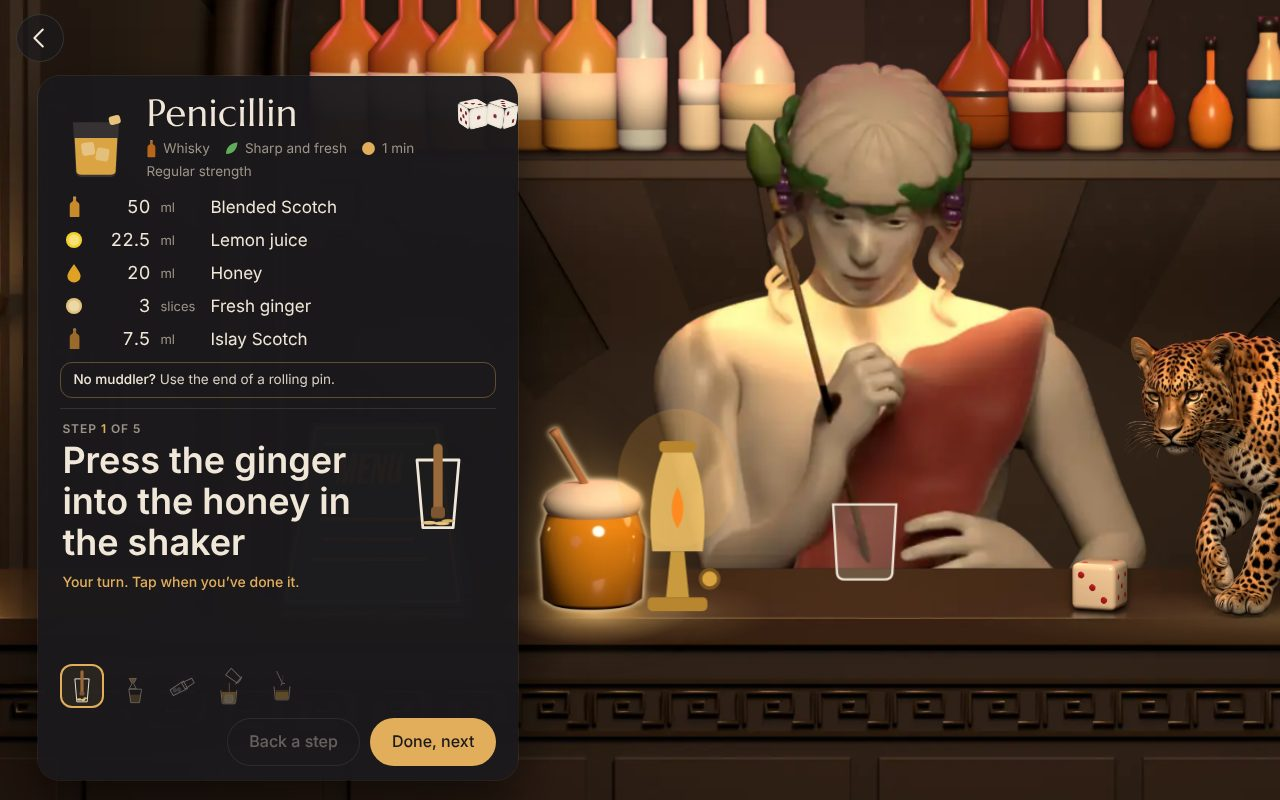
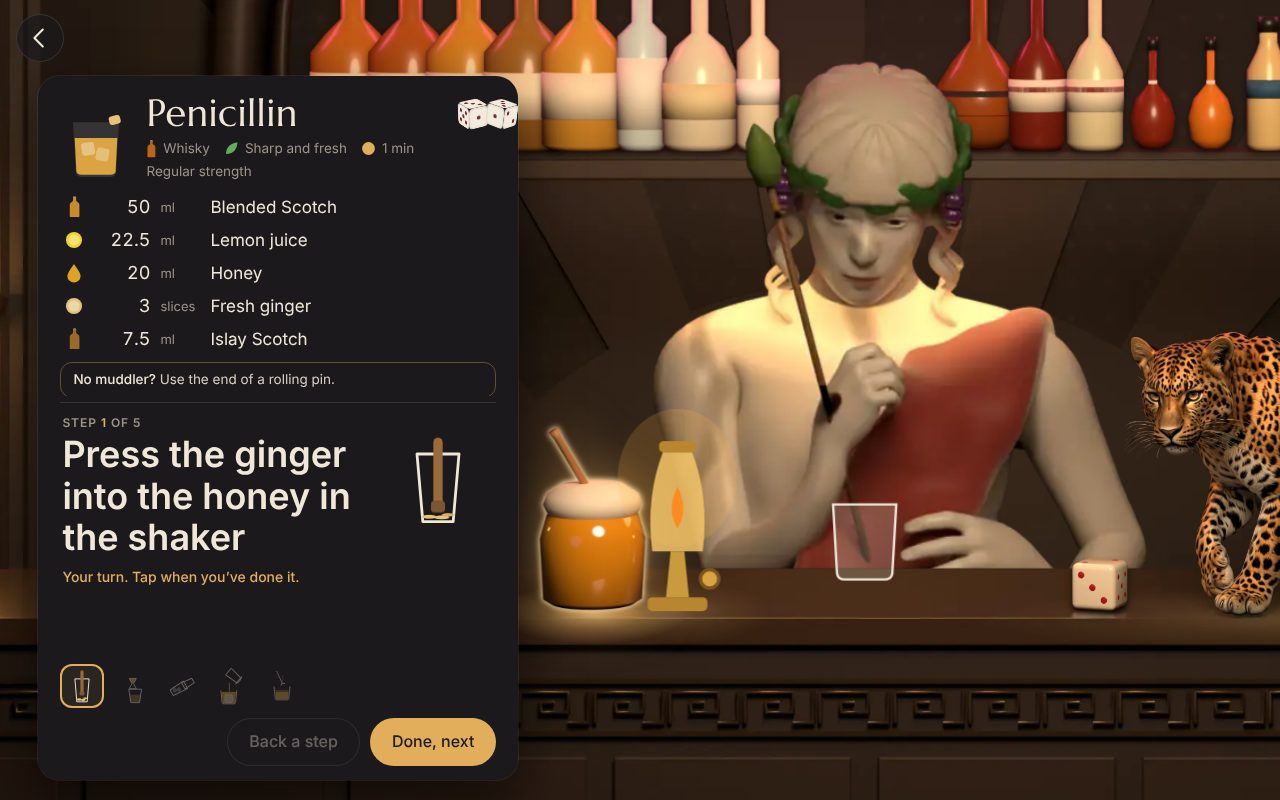
Prototype E: review fixes for the Halo carry-over (large text, focus, press)
- At A+ the recipe keeps its ingredients and its step: the top section has
  a floor and a cap, the step box scrolls, the thumbnails never shrink, and
  the ingredient text grows with --text-scale instead of zoom. On a phone at
  the largest sizes the step comes first.
- Your bar keeps every tile in place when a bottle is marked run out
  (stable shelf order), and groups liqueurs under Liqueurs from the data.
- Panels take focus when they open; going home returns focus to the
  touchable you came from; Dionysus gets the gold focus ring; Escape closes
  settings.
- Panel buttons give a little under the finger (off with reduced motion);
  phone step thumbnails are 44 px; the phone talk field stays usable at A+.
- Opaque panels; the cycling phrase fades instead of being cut; one dice
  on the phone recipe; step glyphs drawn as soon as anim.js arrives.

Claude-Session: https://claude.ai/code/session_017R8H9iatqLJtjbxy9HG2GV

diff --git a/prototypes/e-rendered/app.js b/prototypes/e-rendered/app.js
@@ -2,7 +2,7 @@
    The camera is still the SVG viewBox, in B's world units. The background is one rendered picture per camera
    position; touchables and bottles are separate rendered layers; Dionysus is his own layer (dio-layer.js). */
 /* Halo's step glyphs (src/anim.js, copied unchanged). Loaded first, before anything can open a recipe. */
-(function loadAnim() { const s = document.createElement('script'); s.src = 'anim.js'; s.async = false; document.head.append(s); })();
+const ANIM = (function loadAnim() { const s = document.createElement('script'); s.src = 'anim.js'; s.async = false; document.head.append(s); return s; })();
 const $ = s => document.querySelector(s);
 const NS = 'http://www.w3.org/2000/svg';
 const svg = $('#scene');
@@ -189,7 +189,8 @@ const LIFTED = ['honey', 'menu', 'lamp', 'panther'];
     el('ellipse', { class: 'lpool', 'data-for': id, cx: L.x + L.w / 2, cy: L.y + L.h + 1, rx: Math.max(56, L.w * .85), ry: 18, fill: 'url(#poolGrad)' }, pools);
   });
   /* press: lift a little; keyboard: Enter or Space acts like a tap on any touchable */
-  svg.addEventListener('pointerdown', e => { const t = e.target.closest('.touch'); if (t) t.classList.add('pressed'); });
+  svg.addEventListener('pointerdown', e => { const t = e.target.closest('.touch'); if (t) { t.classList.add('pressed'); if (screen === 'home') cameFrom = t; } });
+  $('#talkBtn').addEventListener('pointerdown', () => { if (screen === 'home') cameFrom = $('#talkBtn'); });
   const unpress = () => document.querySelectorAll('.touch.pressed').forEach(t => t.classList.remove('pressed'));
   addEventListener('pointerup', unpress); addEventListener('pointercancel', unpress); svg.addEventListener('pointerleave', unpress);
   svg.addEventListener('keydown', e => { if (e.key !== 'Enter' && e.key !== ' ') return; const t = e.target.closest('.touch'); if (!t) return;
@@ -209,6 +210,15 @@ function sizeHits() {
   });
 }
 sizeHits();
+/* Dionysus gets the same gold focus ring, drawn round his figure */
+(function dioRing() {
+  const d = $('#dio'), ring = el('rect', { class: 'ring', rx: 14 }); d.appendChild(ring);
+  d.addEventListener('focus', () => {
+    const shape = d.querySelector('#dioLoops path') || d.querySelector('#body');
+    try { const b = shape.getBBox(), m = d.getScreenCTM(), px = Math.hypot(m.a, m.b) || 1, pad = 6 / px;
+      ring.setAttribute('x', b.x - pad); ring.setAttribute('y', b.y - pad); ring.setAttribute('width', b.width + 2 * pad); ring.setAttribute('height', b.height + 2 * pad); ring.setAttribute('rx', 14 / px); } catch (_) {}
+  });
+})();
 
 /* ---------------- Main loop ---------------- */
 let last = performance.now(), T = 0;
@@ -253,6 +263,7 @@ function speak(html, opts = {}) {
   talkForm.hidden = !opts.talk; dio.lookUp(true); $('#talkBtn').hidden = true;
   requestAnimationFrame(placeBubble);
   if (opts.talk && !isPhone()) setTimeout(() => $('#talkIn').focus({ preventScroll: true }), 50);
+  else if (!opts.talk) focusIn(chips.querySelector('.chip'));
 }
 function hush() { bubble.hidden = true; dio.lookUp(false); if (screen === 'home') $('#talkBtn').hidden = false; }
 $('#bubbleX').onclick = () => { hush(); if (shotName !== 'home') home(); };
@@ -264,17 +275,25 @@ function clearScene() {
   panel.hidden = true; panel.className = 'panel'; svg.classList.remove('dim'); document.body.classList.remove('recipe-on');
   recipeState = null; $('#drink').innerHTML = ''; dio.idle(); lightUp(null);
 }
+/* Focus: a panel takes focus when it opens; going home gives it back to the touchable (or the talk pill) you came from.
+   While a panel is open, the scene's touchables leave the Tab order. */
+let cameFrom = null;
+const focusIn = sel => requestAnimationFrame(() => { const e = typeof sel === 'string' ? panel.querySelector(sel) : sel; if (e && !e.closest('[hidden]')) e.focus({ preventScroll: true }); });
+function sceneTabbable(on) { document.querySelectorAll('#scene .touch').forEach(t => { if (t.id !== 'lamp') t.setAttribute('tabindex', on ? '0' : '-1'); }); }
 function home() {
   screen = 'home'; clearScene(); $('#back').hidden = true; $('#talkBtn').hidden = false;
-  hush(); return cam('home');
+  hush(); sceneTabbable(true);
+  const back = cameFrom, a = document.activeElement; cameFrom = null;
+  if (back && back.isConnected && !back.hidden && (!a || a === document.body || panel.contains(a) || bubble.contains(a) || a === $('#back'))) back.focus({ preventScroll: true });
+  return cam('home');
 }
 $('#back').onclick = () => home();
 $('#back').innerHTML = ICON.back;
 /* Halo's search pill: talking to him is the search (Q3). The cycling words are things you can say (R12), never buttons. */
-$('#talkBtn').innerHTML = `<span class="tl">Talk to Dionysus</span><span class="cyc" aria-hidden="true">${['“warm me up”', '“something smoky”', '“after dinner”', '“gin, sharp and fresh”', '“nothing too strong”'].map((t, n) => `<em style="animation-delay:${n * 3}s">${t}</em>`).join('')}</span><span class="mi" aria-hidden="true">${ICON.mic}</span>`;
+$('#talkBtn').innerHTML = `<span class="tl">Talk to Dionysus</span><span class="cyc" aria-hidden="true">${['“warm me up”', '“something smoky”', '“after dinner”', '“fresh, with gin”', '“not too strong”'].map((t, n) => `<em style="animation-delay:${n * 3}s">${t}</em>`).join('')}</span><span class="mi" aria-hidden="true">${ICON.mic}</span>`;
 $('#talkBtn').setAttribute('aria-label', 'Talk to Dionysus');
-addEventListener('keydown', e => { if (e.key === 'Escape' && screen !== 'home' && screen !== 'intro') home(); });
-function setScreen(name) { screen = name; $('#back').hidden = false; $('#talkBtn').hidden = true; clearScene(); }
+addEventListener('keydown', e => { if (e.key !== 'Escape') return; if (!settings.hidden) { settings.hidden = true; $('#lamp').focus({ preventScroll: true }); return; } if (screen !== 'home' && screen !== 'intro') home(); });
+function setScreen(name) { if (screen === 'home' && !cameFrom) { const a = document.activeElement; cameFrom = a && a.closest && (a.closest('.touch') || a.closest('#talkBtn')) || null; } screen = name; $('#back').hidden = false; $('#talkBtn').hidden = true; clearScene(); sceneTabbable(false); }
 function lightUp(id) { document.querySelectorAll('.touch.lit').forEach(t => t.classList.remove('lit')); if (id) $('#' + id).classList.add('lit'); }
 
 /* 1. Opening: the big word becomes the neon sign */
@@ -314,7 +333,7 @@ function openPhotos() {
    <div class="row"><button class="btn ghost" id="pcancel">Not now</button><button class="btn" id="pread">Read these photos</button></div>`;
   panel.querySelectorAll('.photo').forEach(b => b.onclick = () => { const id = b.dataset.id; picked.has(id) ? picked.delete(id) : picked.add(id); b.setAttribute('aria-pressed', picked.has(id)); });
   $('#pasteL').onclick = e => { e.preventDefault(); openPaste(); };
-  $('#pcancel').onclick = home;
+  $('#pcancel').onclick = home; focusIn('#pread');
   $('#pread').onclick = async () => {
     if (!picked.size) return;
     panel.innerHTML = `<h2>Show him your bar</h2><div class="reading"><i></i> Dionysus is reading your photos…</div>`;
@@ -334,6 +353,7 @@ function openPaste() {
    <div class="row"><button class="btn ghost" id="pex">Use an example reply</button><button class="btn ghost" id="pcancel">Not now</button><button class="btn" id="pread">Read the reply</button></div>`;
   $('#aiPrompt').textContent = AI_PROMPT();
   $('#copyP').onclick = () => { navigator.clipboard && navigator.clipboard.writeText(AI_PROMPT()).catch(() => {}); $('#copyP').textContent = 'Copied'; };
+  focusIn('#pasteIn');
   $('#pex').onclick = () => { $('#pasteIn').value = JSON.stringify({ bottles: INVENTORY.have.map(k => ({ label: ING[k][0], style: k })), barware: ['shaker', 'strainer', 'jigger', 'spoon'] }); };
   $('#pcancel').onclick = home;
   $('#pread').onclick = () => {
@@ -342,7 +362,7 @@ function openPaste() {
     confirmFound(res, res.unknown);
   };
 }
-const famName = k => isBottle(k) ? (FAMILIES[ING[k][3]] || { bitters: 'Bitters', mixer: 'Mixers' }[ING[k][3]] || 'Other') : 'In the kitchen';
+const famName = k => isBottle(k) ? GROUP_NAME(groupOf(k)) : 'In the kitchen';
 function confirmFound(res, unknown = []) {
   const byKind = {}; res.found.forEach(k => { const f = famName(k); (byKind[f] = byKind[f] || []).push(k); });
   panel.innerHTML = `<h2>Here's what he found</h2><ul class="found">${Object.entries(byKind).map(([f, l]) => `<li><b>${f}</b>${l.map(k => `<span class="fi">${ingIco(k, 22)}${esc(ING[k][0])}</span>`).join('')}</li>`).join('')}</ul>
@@ -350,7 +370,7 @@ function confirmFound(res, unknown = []) {
    <p class="lbl">Barware: tick what you have</p>
    <div class="ticks">${Object.entries(BARWARE).map(([k, v]) => `<label><input type="checkbox" value="${k}" ${res.tools.includes(k) ? 'checked' : ''}> ${v}</label>`).join('')}</div>
    <div class="row"><button class="btn ghost" id="pcancel">Not now</button><button class="btn" id="pstock">Stock the shelf</button></div>`;
-  $('#pcancel').onclick = home;
+  $('#pcancel').onclick = home; focusIn('#pstock');
   $('#pstock').onclick = async () => {
     const tools = [...panel.querySelectorAll('.ticks input:checked')].map(i => i.value);
     applyReading(res, tools); panel.hidden = true; drawShelf(true);
@@ -385,6 +405,7 @@ function openShelf(tab) {
   panel.querySelectorAll('.bhead .fb').forEach(b => b.onclick = () => { shelfTab = b.dataset.t; panel.querySelectorAll('.bhead .fb').forEach(x => x.setAttribute('aria-selected', x === b)); panel.querySelector('.bhead h2').textContent = b.textContent; fillBar(); });
   $('#pmore').onclick = openPhotos; $('#pdone').onclick = home;
   fillBar();
+  focusIn('#barBody .it');
 }
 function fillBar() {
   const box = $('#barBody'); if (!box) return;
@@ -395,7 +416,7 @@ function fillBar() {
     box.querySelectorAll('.mini').forEach(b => b.onclick = () => openRecipe(b.dataset.id));
     return;
   }
-  const fam = {}; shelfBottles().forEach(b => { const f = FAMILIES[b.family] || { bitters: 'Bitters', mixer: 'Mixers' }[b.family] || 'Other'; (fam[f] = fam[f] || []).push(b); });
+  const fam = {}; shelfBottles().forEach(b => { const f = GROUP_NAME(groupOf(b.k)); (fam[f] = fam[f] || []).push(b); });
   const outN = BAR.out.size;
   box.innerHTML = `<p class="sub">${shelfBottles().length - outN} bottles${outN ? ` · ${outN} run out` : ''}. Tap a bottle when it runs out.</p>
    <div class="bfams">${Object.entries(fam).map(([f, l]) => `<section class="bfam"><h3>${f}</h3><div class="ig">${l.map(b => `<button class="it${b.out ? ' off' : ''}" data-k="${b.k}" aria-pressed="${!b.out}" aria-label="${esc(b.style)}${b.out ? ', run out' : ''}">${ingIco(b.k, 40, { ghost: b.out })}<span>${esc(b.style)}</span>${b.out ? '<small>run out</small>' : ''}</button>`).join('')}</div></section>`).join('')}</div>
@@ -437,6 +458,7 @@ async function openMenu(tab = 'spirit') {
   panel.innerHTML = `<h2>MENU</h2><p class="menunote">${R.length} drinks · ${n} you can make now</p><div class="fbs" role="tablist">${[['spirit', 'By spirit'], ['feel', 'By feel'], ['az', 'A–Z']].map(([k, v]) => `<button class="fb" role="tab" data-t="${k}" aria-selected="${k === tab}">${v}</button>`).join('')}</div><div class="mbody"></div>`;
   panel.querySelectorAll('.fbs .fb').forEach(b => b.onclick = () => { panel.querySelectorAll('.fbs .fb').forEach(x => x.setAttribute('aria-selected', x === b)); fillMenu(b.dataset.t); });
   fillMenu(tab);
+  focusIn('.fbs .fb[aria-selected=true]');
 }
 function wireDrinks() { panel.querySelectorAll('.dc').forEach(b => b.onclick = () => openRecipe(b.dataset.id)); }
 /* Halo's A–Z ring: the letters swell under the finger (or the mouse); lift on a letter and its drinks pop out as an
@@ -587,7 +609,8 @@ function ingRow(x) {
   return `<div class="ir${ok || sub ? '' : ' miss'}"><span class="ii">${ingIco(x.k, 22, { ghost: !ok && !sub })}</span><span class="iq">${q}</span><span class="iu">${esc(unit)}</span><span class="in">${esc(name)}</span><span class="ix">${right}</span></div>`;
 }
 function openRecipe(id, chosen) {
-  const r = RB[id]; hush(); setScreen('recipe');
+  const r = RB[id]; if (!r) return home();
+  hush(); setScreen('recipe');
   document.body.classList.add('recipe-on'); cam('recipe', 900);
   golden = Math.random() < .15;
   const swaps = swapsFor(r);
@@ -612,6 +635,10 @@ function openRecipe(id, chosen) {
   $('#againDice').onclick = () => another($('#againDice .dice'));
   recipeState = { r, i: 0, chosen };
   drinkGlass(r, 0, false); goStep(0);
+  focusIn('#nextS');
+  /* if Halo's glyphs are still loading, draw them the moment they arrive */
+  if (typeof act !== 'function') ANIM.addEventListener('load', () => { if (!recipeState || recipeState.r !== r) return;
+    panel.querySelectorAll('.thumbs .th').forEach((b, n) => { b.innerHTML = glyph(r, n); }); const g = $('#glyph'); if (g) g.insertAdjacentHTML('afterbegin', glyph(r, recipeState.i)); }, { once: true });
 }
 /* "Another": Halo's dice roll, then a new barman's choice (R7 pool) */
 function another(diceBox) {

diff --git a/prototypes/e-rendered/style.css b/prototypes/e-rendered/style.css
@@ -3,7 +3,7 @@
    Marcellus for names over Inter for reading. The bar stays Blender's; the panels are Halo's. */
 :root{--step-size:36px;--text-scale:1;--page:#0f0e10;--cream:#f0e7d8;
  --bg:#1b191c;--ink:#f0e7d8;--mute:#9d9488;--faint:#332f34;--glass:rgba(240,231,216,.13);--acc:#e2ae5c;--ok:#7cc48a;--need:#e07060;
- --panel:rgba(27,25,28,.96);--line:rgba(240,231,216,.12);
+ --panel:#1b191c;--line:rgba(240,231,216,.12);
  --display:"Marcellus",Georgia,serif;--body:"Inter",system-ui,sans-serif;--e:cubic-bezier(.2,0,0,1);
  --skin:#e8d4bd;--shade:#b89a80;--veinop:.28;--red:#9e2a22;--red2:#7a1d18;--grn:#2f5a32;--grn2:#244726;--lip:#b7615a;--cheek:#d9907a;--cheekop:.35;--hair:#2b1b12;
  --f-sweet:#e0a224;--f-bal:#4fa59d;--f-bit:#d0453a;--f-dec:#b07a52;--f-str:#d46a28;--f-fre:#62ad5a;
@@ -45,7 +45,7 @@ svg.ghost{opacity:.3}
 /* Dionysus: rim only. He must stay sharp and unbleached (R10) */
 #dio{transition:filter .25s var(--e)}
 #dio:hover,#dio.lit{filter:drop-shadow(0 0 1px rgba(255,222,170,.85)) drop-shadow(0 0 5px rgba(226,174,92,.25))}
-#dio:focus-visible{filter:drop-shadow(0 0 0 var(--acc)) drop-shadow(0 0 2px var(--acc))}
+#dio .ring{stroke-width:3px}
 /* the shelf: the bottles lift as one when it is touched; each keeps its own shadow */
 #shelf .lift{transform-origin:50% 100%}
 #shelf:active .lift,#shelf.pressed .lift{transform:translateY(-2px)}
@@ -90,7 +90,7 @@ svg.ghost{opacity:.3}
 #talkBtn{left:50%;bottom:max(20px,env(safe-area-inset-bottom));transform:translateX(-50%);display:flex;align-items:center;gap:14px;height:56px;min-width:340px;padding:0 10px 0 24px;border-radius:28px;
  background:rgba(51,47,52,.92);color:var(--ink);box-shadow:0 0 0 1px rgba(240,231,216,.08) inset,0 14px 34px rgba(0,0,0,.55);font:500 17px var(--body);text-align:left}
 #talkBtn .tl{flex:none}
-#talkBtn .cyc{position:relative;flex:1;height:22px;overflow:hidden;color:var(--mute);font-weight:400;font-size:15px}
+#talkBtn .cyc{position:relative;flex:1;height:22px;overflow:hidden;-webkit-mask-image:linear-gradient(90deg,#000 85%,transparent);mask-image:linear-gradient(90deg,#000 85%,transparent);color:var(--mute);font-weight:400;font-size:15px}
 #talkBtn .cyc em{position:absolute;left:0;top:0;font-style:normal;white-space:nowrap;opacity:0;animation:cyc 15s infinite}
 @keyframes cyc{0%{opacity:0;transform:translateY(8px)}3%,17%{opacity:1;transform:none}20%,100%{opacity:0;transform:translateY(-8px)}}
 #talkBtn .mi{width:40px;height:40px;border-radius:50%;display:grid;place-items:center;color:var(--acc);margin-left:auto}
@@ -235,30 +235,30 @@ svg.ghost{opacity:.3}
 /* ---- Recipe: Halo's grid on a dark card; he stands sharp beside it (R10) ---- */
 .recipe{left:max(20px,3vw);top:76px;bottom:20px;width:min(480px,46vw);display:flex;flex-direction:column;background:var(--panel);color:var(--ink);border-radius:22px;padding:18px 22px 14px;
  box-shadow:0 0 0 1px rgba(240,231,216,.08),0 24px 60px rgba(0,0,0,.6)}
-.recipe .rtop{flex:0 1 auto;min-height:72px;overflow:auto;scrollbar-width:thin;scrollbar-color:var(--faint) transparent;margin:0 -6px;padding:0 6px}
+.recipe .rtop{flex:0 0 auto;max-height:45%;min-height:72px;overflow:auto;scrollbar-width:thin;scrollbar-color:var(--faint) transparent;margin:0 -6px;padding:0 6px}
 .recipe .kicker{display:flex;align-items:center;gap:8px;margin:0 56px 6px 0;font-size:13.5px;color:var(--acc)}
 .recipe .kicker b{font-weight:500;color:var(--ink)}
 .recipe .head{display:grid;grid-template-columns:72px 1fr;column-gap:14px;align-items:end;margin:0 52px 10px 0}
 .recipe .head .rg{display:flex;justify-content:center;align-items:flex-end}
 .recipe h2{font:400 38px/1.02 var(--display);letter-spacing:.01em;margin:0 0 6px}
-.recipe .rm{display:flex;flex-wrap:wrap;gap:4px 14px;color:var(--mute);font-size:13.5px}.recipe .rm span{display:flex;align-items:center;gap:6px}
+.recipe .rm{display:flex;flex-wrap:wrap;gap:4px 14px;color:var(--mute);font-size:calc(13.5px * min(var(--text-scale), 1.15))}.recipe .rm span{display:flex;align-items:center;gap:6px}
 .again{position:absolute;top:10px;right:10px;width:56px;height:56px;border:0;background:none;border-radius:16px;display:grid;place-items:center}
 .again:hover{background:rgba(240,231,216,.05)}
 .recipe .worth{margin:0 0 8px;background:rgba(226,174,92,.12);color:var(--ink);border-radius:12px;padding:8px 12px;font-size:14px}
 .recipe .golden{margin:0 0 8px;background:linear-gradient(90deg,rgba(232,196,90,.25),rgba(255,243,196,.06));color:var(--ink);border-radius:12px;padding:8px 12px;font-size:14px}
-.recipe .ing{display:grid;grid-template-columns:28px 52px 40px 1fr auto;column-gap:10px;row-gap:3px;align-items:center;margin:2px 0 8px}
+.recipe .ing{--s:var(--text-scale);display:grid;grid-template-columns:28px calc(52px * var(--s)) calc(40px * var(--s)) 1fr auto;column-gap:10px;row-gap:3px;align-items:center;margin:2px 0 8px}
 .recipe .ir{display:contents}
 .recipe .ii{display:grid;place-items:center;height:30px}
-.recipe .iq{text-align:right;font-size:18px;font-variant-numeric:tabular-nums}
-.recipe .iu{font-size:13px;color:var(--mute)}
-.recipe .in{font-size:17px;line-height:1.2}
-.recipe .ix{font-size:13px;text-align:right;white-space:nowrap}
+.recipe .iq{text-align:right;font-size:calc(18px * var(--s));font-variant-numeric:tabular-nums}
+.recipe .iu{font-size:calc(13px * var(--s));color:var(--mute)}
+.recipe .in{font-size:calc(17px * var(--s));line-height:1.2}
+.recipe .ix{font-size:calc(13px * var(--s));text-align:right;white-space:nowrap}
 .recipe .ir.miss .iq,.recipe .ir.miss .in{color:var(--mute)}
 .recipe .sub{color:var(--acc)}.recipe .opt{color:var(--mute)}.recipe .needx{color:var(--need)}
-.toolswap{border:1px solid rgba(226,174,92,.35);background:transparent;color:#d8cfc2;border-radius:12px;padding:7px 12px;font-size:13.5px;margin:0 0 4px}
+.toolswap{border:1px solid rgba(226,174,92,.35);background:transparent;color:#d8cfc2;border-radius:12px;padding:7px 12px;font-size:calc(13.5px * var(--text-scale));margin:0 0 4px}
 .toolswap b{color:var(--ink);font-weight:500}
 /* R6, R11: one step at a time, big enough to read from a metre; the size is one variable. The glyph shows the hand's movement. */
-.stepbox{flex:1 0 auto;max-height:64%;min-height:0;overflow:auto;margin-top:6px;border-top:1px solid var(--line);padding:12px 2px 6px;cursor:pointer;display:grid;grid-template-columns:1fr auto;column-gap:14px;align-items:start;scrollbar-width:thin;scrollbar-color:var(--faint) transparent}
+.stepbox{flex:1 1 0;min-height:0;overflow:auto;margin-top:6px;border-top:1px solid var(--line);padding:12px 2px 6px;cursor:pointer;display:grid;grid-template-columns:1fr auto;column-gap:14px;align-items:start;scrollbar-width:thin;scrollbar-color:var(--faint) transparent}
 .stepbox .stxt{min-width:0}
 .stepbox .stepno{margin:0;font:600 12px var(--body);letter-spacing:.08em;text-transform:uppercase;color:var(--mute)}
 .stepbox .stepno i{font-style:normal;color:var(--acc)}
@@ -269,7 +269,7 @@ svg.ghost{opacity:.3}
 .stepbox .glyph .act{width:112px;height:112px;overflow:visible}
 .stepbox .sec{display:flex;align-items:center;gap:6px;color:var(--mute);font-size:13px}
 .stepbox .done{grid-column:1/-1}
-.thumbs{display:flex;gap:6px;padding:8px 0 2px;overflow-x:auto;scrollbar-width:none}
+.thumbs{flex:none;display:flex;gap:6px;padding:8px 0 2px;overflow-x:auto;scrollbar-width:none}
 .thumbs .th{flex:none;width:44px;height:44px;border:0;padding:2px;border-radius:12px;background:transparent;opacity:.35;display:grid;place-items:center}
 .thumbs .th .act{width:38px;height:38px}
 .thumbs .th .act *{animation:none!important}
@@ -325,15 +325,16 @@ svg.ghost{opacity:.3}
  .recipe .head{grid-template-columns:1fr;margin-bottom:6px}
  .recipe .head .rg{display:none}
  .recipe h2{font-size:30px;margin-bottom:4px}
- .recipe .rm{font-size:12.5px;gap:2px 10px}
- .recipe .ing{grid-template-columns:22px 40px 32px 1fr auto;column-gap:7px;row-gap:0;margin-bottom:6px}
+ .recipe .rm{font-size:calc(12.5px * min(var(--text-scale), 1.15));gap:2px 10px}
+ .recipe .ing{grid-template-columns:22px calc(40px * var(--s)) calc(32px * var(--s)) 1fr auto;column-gap:7px;row-gap:0;margin-bottom:6px}
  .recipe .ii{height:24px}.recipe .ii svg{max-height:20px;width:auto}
- .recipe .iq{font-size:14px}.recipe .in{font-size:13.5px}.recipe .iu,.recipe .ix{font-size:12px}
- .toolswap{font-size:12.5px;padding:5px 10px}
+ .recipe .iq{font-size:calc(14px * var(--s))}.recipe .in{font-size:calc(13.5px * var(--s))}.recipe .iu,.recipe .ix{font-size:calc(12px * var(--s))}
+ .toolswap{font-size:calc(12.5px * var(--text-scale));padding:5px 10px}
  .recipe .worth,.recipe .golden{font-size:13px;padding:6px 10px}
  .stepbox{grid-template-columns:1fr auto;column-gap:10px;padding-top:8px}
  .stepbox .glyph .act{width:72px;height:72px}
- .thumbs .th{width:36px;height:36px;border-radius:10px}.thumbs .th .act{width:30px;height:30px}
+ .thumbs{gap:2px}.thumbs .th{width:44px;height:44px;border-radius:12px}.thumbs .th .act{width:32px;height:32px}
+ .kicker .dice{display:none}
  .recipe .btn{padding:10px 16px}
  .again{width:52px;height:44px;top:8px;right:6px}.again .dice{--ds:15px!important}
  .recipe .rtop{-webkit-mask-image:linear-gradient(#000 calc(100% - 16px),transparent);mask-image:linear-gradient(#000 calc(100% - 16px),transparent);padding-bottom:10px}
@@ -352,14 +353,25 @@ svg.ghost{opacity:.3}
  .settings{top:auto;bottom:8px;right:8px;left:8px;width:auto}
 }
 /* at the largest text the glyph moves above the words on a phone */
-@media (max-width:640px){ :root[data-big] .stepbox{grid-template-columns:1fr} :root[data-big] .stepbox .glyph{order:-1;flex-direction:row;justify-content:flex-start} }
+@media (max-width:640px){ :root[data-big] .stepbox{grid-template-columns:1fr} }
 @media (prefers-reduced-motion:reduce){*{animation:none!important;transition:none!important}.touch:active .lift,.touch.pressed .lift{transform:none}#talkBtn .cyc em:first-child{opacity:1}}
 /* the shelf sheet sits below the shelf it describes */
 .sheet.shelfsheet{top:auto;bottom:16px;transform:translateX(-50%);max-height:48vh}
 @media (max-width:640px){ .sheet.shelfsheet{max-height:56dvh;bottom:8px} }
 
 /* Text size setting: the step uses --step-size; reading panels scale with --text-scale */
-.bubble,.recipe .ing,.recipe .rm,.toolswap,.menunote,.barsheet .bfams{zoom:var(--text-scale)}
+.menunote,.barsheet .bfams{zoom:var(--text-scale)}
+.bubble p{font-size:calc(17px * var(--text-scale))}
+.chip{font-size:calc(15px * min(var(--text-scale), 1.3))}
+.chip.res b{font-size:calc(18px * min(var(--text-scale), 1.3))}
+.story .sq{font-size:calc(19px * var(--text-scale))}
+.talk input{font-size:calc(15px * min(var(--text-scale), 1.3))}
+/* phone at large text: the talk field gets its own row, mic and Ask below it */
+@media (max-width:640px){ :root[data-big] .talk{flex-wrap:wrap} :root[data-big] .talk input{flex:1 1 100%} :root[data-big] .talk .mic{margin-left:auto} :root[data-big] .story .sq{font-size:calc(17px * var(--text-scale))} }
+/* press: panel buttons give a little under the finger, like the touchables on the counter */
+:is(.btn,.chip,.it,.mini,.fb,.tool,.th,.again,.x,.photo,#back):active{transform:translateY(1px) scale(.98)}
+:is(.btn,.chip,.it,.mini,.fb,.tool,.th,.again,.x,.photo,#back){transition:transform .12s var(--e),background .15s var(--e)}
+@media (prefers-reduced-motion:reduce){:is(.btn,.chip,.it,.mini,.fb,.tool,.th,.again,.x,.photo,#back):active{transform:none}}
 
 /* ---- Halo's step glyphs (index.html, copied; its 'drop' keyframes renamed 'adrop' so the shelf's bottle drop keeps its own) ---- */
 .act *{transform-box:view-box}
@@ -447,3 +459,16 @@ svg.ghost{opacity:.3}
 .mist{animation:mist 1.4s ease-out infinite}
 @keyframes mist{0%,25%{opacity:0;transform:none}35%{opacity:1}100%{opacity:0;transform:translateY(24px)}}
 .steam{animation:stm 2.4s ease-out infinite}
+/* strip cards are placed with transform, so the press goes to the glass */
+.dc .pic{transition:transform .12s var(--e)}.dc:active .pic{transform:translateY(2px) scale(.97)}
+@media (prefers-reduced-motion:reduce){.dc:active .pic{transform:none}}
+/* phone: the chips scroll inside the bubble, the talk field always stays in view */
+@media (max-width:640px){
+ .bubble{display:flex;flex-direction:column}
+ .bubble #say,.bubble .talk{flex:none}
+ .bubble #chips{flex:0 1 auto;min-height:48px;overflow:auto}
+ .thumbs{padding-top:4px}
+ /* at the largest text the step comes first: the moving glyph is left to the thumbnails, the ingredients get a smaller share */
+ :root[data-big] .stepbox .glyph{display:none}
+ :root[data-big] .recipe .rtop{max-height:32%}
+}

diff --git a/prototypes/e-rendered/logic.js b/prototypes/e-rendered/logic.js
@@ -62,8 +62,12 @@ function setRunOut(k, out) {
 }
 const isBottle = k => ['spirit', 'wine', 'liqueur', 'bitters', 'mixer'].includes((ING[k] || [])[1]);
 const shelfBottles = () => [...new Set([...BAR.have, ...BAR.out])].filter(isBottle).map(k => ({ k, style: ING[k][0], kind: ING[k][1], colour: ING[k][2], family: ING[k][3], out: BAR.out.has(k) }))
-  .sort((a, b) => ORDER.indexOf(a.family) - ORDER.indexOf(b.family));
-const ORDER = ['whisky', 'gin', 'vodka', 'rum', 'tequila', 'brandy', 'aperitif', 'bitters', 'mixer'];
+  /* a stable order: by group, then by the inventory's own order, so marking a Bottle run out never moves it */
+  .sort((a, b) => ORDER.indexOf(groupOf(a.k)) - ORDER.indexOf(groupOf(b.k)) || INV0.indexOf(a.k) - INV0.indexOf(b.k) || a.style.localeCompare(b.style));
+const ORDER = ['whisky', 'gin', 'vodka', 'rum', 'tequila', 'brandy', 'liqueur', 'aperitif', 'bitters', 'mixer'];
+/* Shelf groups from the data: a liqueur (kind 'liqueur', not an aperitif) is a Liqueur, whatever spirit it is made from */
+const groupOf = k => ING[k][1] === 'liqueur' && ING[k][3] !== 'aperitif' ? 'liqueur' : ING[k][3];
+const GROUP_NAME = g => FAMILIES[g] || { liqueur: 'Liqueurs', bitters: 'Bitters', mixer: 'Mixers' }[g] || 'Other';
 
 function missingFor(r) { // ingredients you lack (no swap held)
   return r.ing.filter(x => !x.o && !STAPLE.has(x.k) && !BAR.have.has(x.k) && !x.subs.some(s => BAR.have.has(s)));
